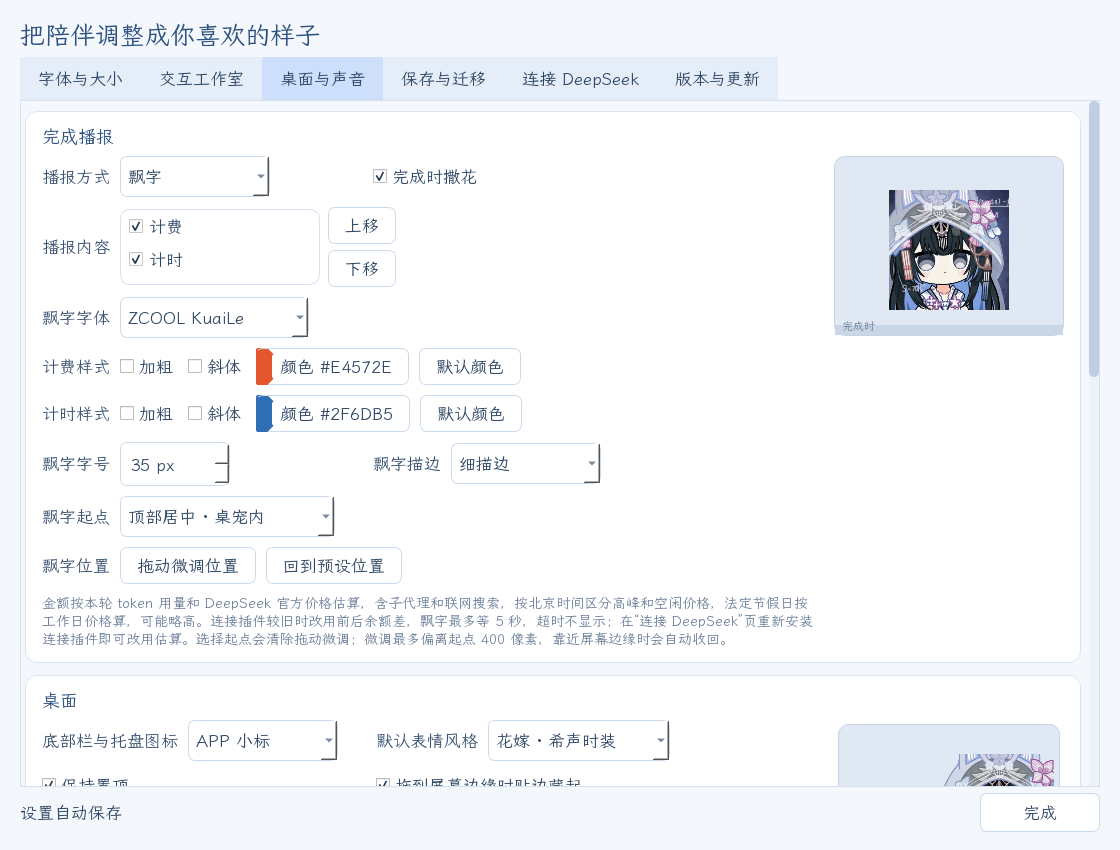
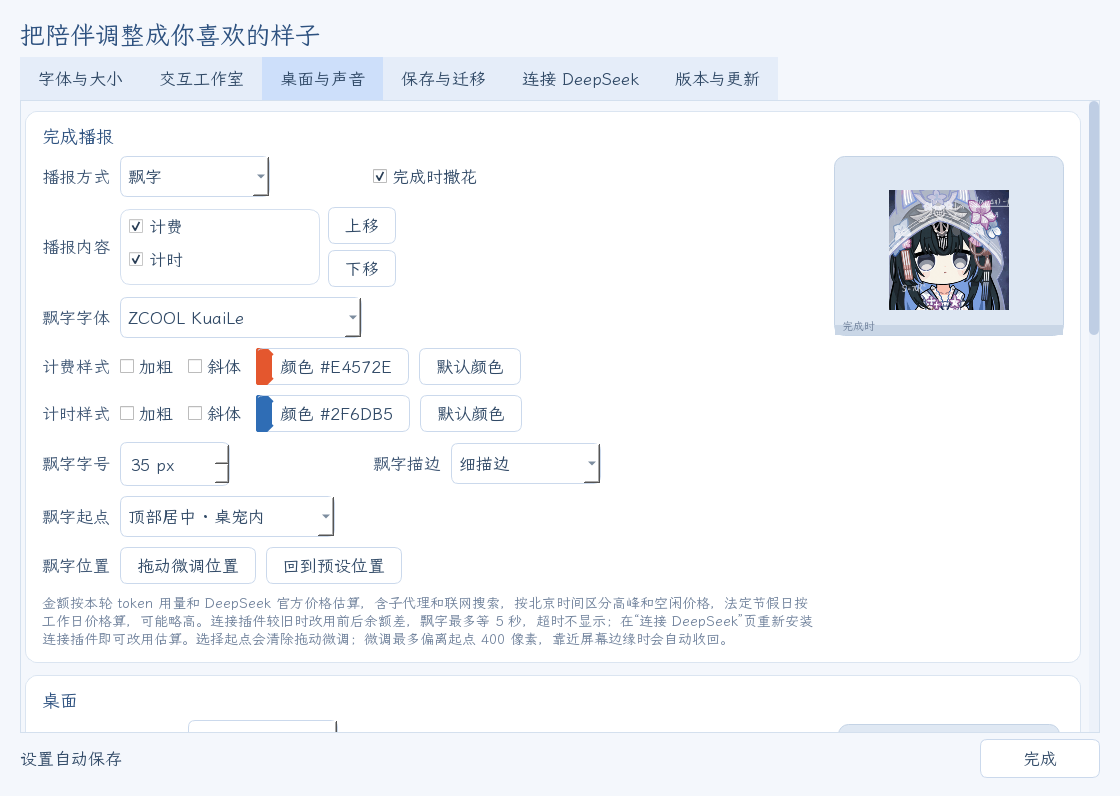
Remove the original-outfit expression preset
Its stand-ins for interactions without a same-named sticker were poor.
Selena now always starts from the bridal set: the skin drop-down is gone
from Desktop & Sound, and a saved or imported 原皮 preset falls back to
bridal. The original stickers stay in the library, and an interaction
set to one of them by hand keeps it. README and the settings screenshot
follow.

diff --git a/tests/test_skin_preset.py b/tests/test_skin_preset.py
@@ -1,0 +1,51 @@
+"""The 原皮 expression preset was removed: Selena always starts from the bridal set, while the original-outfit
+stickers stay in the library for anyone who picks them one interaction at a time."""
+import pathlib,tempfile,unittest
+from unittest.mock import patch
+from PySide6.QtWidgets import QApplication,QComboBox
+from selena_pet import pet as module
+from selena_pet.config_io import save_atomic
+
+
+class OriginalPresetRemovedTests(unittest.TestCase):
+    @classmethod
+    def setUpClass(cls):
+        cls.app=QApplication.instance() or QApplication([]);cls.app.setQuitOnLastWindowClosed(False)
+
+    def make(self,**settings):
+        self.temp=tempfile.TemporaryDirectory();path=pathlib.Path(self.temp.name)/'settings.json'
+        save_atomic(path,dict(appearance=dict(audio_muted=True),**settings))
+        self.patch=patch.object(module,'SETTINGS',path);self.patch.start()
+        self.pet=module.Pet(offline=True);self.pet.timer.stop();self.pet.slow_timer.stop()
+        return self.pet
+
+    def tearDown(self):
+        if getattr(self.pet,'preferences',None):self.pet.preferences.hide()
+        self.pet.hide();self.patch.stop();self.temp.cleanup()
+
+    def test_only_the_bridal_preset_is_left(self):
+        pet=self.make();self.assertEqual(list(module.PACKS),['花嫁']);self.assertEqual(pet.pack,'花嫁')
+
+    def test_a_saved_original_preset_falls_back_to_bridal(self):
+        pet=self.make(pack='原皮');self.assertEqual(pet.pack,'花嫁')
+        for state,asset in module.PACKS['花嫁'].items():self.assertEqual(pet.binding(state)['asset'],asset,state)
+
+    def test_imported_settings_with_the_original_preset_fall_back_too(self):
+        pet=self.make();pet.apply_settings(dict(pet.settings,pack='原皮'))
+        self.assertEqual(pet.pack,'花嫁');self.assertEqual(pet.binding('idle')['asset'],module.PACKS['花嫁']['idle'])
+
+    def test_original_stickers_stay_in_the_library_and_a_chosen_one_is_kept(self):
+        original=[a['id'] for a in module.CATALOG if a.get('skin')=='原皮']
+        self.assertEqual(len(original),48)
+        pet=self.make(pack='原皮',bindings=dict(pet=dict(asset=original[0])))
+        self.assertEqual(pet.binding('pet')['asset'],original[0])
+        self.assertEqual(pet.binding('idle')['asset'],module.PACKS['花嫁']['idle'])
+
+    def test_the_settings_offer_no_skin_preset(self):
+        pet=self.make();pet.open_preferences('桌面与声音');d=pet.preferences
+        texts=[c.itemText(i) for c in d.findChildren(QComboBox) for i in range(c.count())]
+        self.assertFalse([t for t in texts if '原皮' in t or '花嫁' in t],texts)
+
+
+if __name__=='__main__':
+    unittest.main()

diff --git a/selena_pet/preferences.py b/selena_pet/preferences.py
@@ -63,7 +63,6 @@ class Preferences(QDialog):
         voice.section('桌面',self.preview('desk'))
         icon_style=QComboBox();icon_style.addItem('APP 小标','badged');icon_style.addItem('纯净图标','clean')
         icon_style.currentIndexChanged.connect(lambda:self.change('tray_icon_style',icon_style.currentData()));self.controls['tray_icon_style']=icon_style;voice.addRow('底部栏与托盘图标',icon_style)
-        self.pack=QComboBox(); self.pack.addItem('花嫁 · 希声时装','花嫁'); self.pack.addItem('原皮 · 原版','原皮'); self.pack.currentIndexChanged.connect(lambda:pet.set_pack(self.pack.currentData()) if not self.loading else None); voice.addRow('默认表情风格',self.pack)
         self.top=QCheckBox('保持置顶'); self.top.toggled.connect(lambda value:pet.set_top(value) if not self.loading else None); voice.addRow(self.top)
         for key,label in (('edge_dock','拖到屏幕边缘时贴边藏起'),('daily_recap','每天显示一次小结'),('fullscreen_hide','全屏程序运行时隐藏')):
             box=QCheckBox(label); box.toggled.connect(lambda value,key=key:self.change(key,value)); self.controls[key]=box; voice.addRow(box)
@@ -221,7 +220,7 @@ class Preferences(QDialog):
             elif isinstance(control,QSpinBox): control.setValue(round(value))
             elif isinstance(control,QCheckBox): control.setChecked(bool(value))
             else: control.setText(value)
-        self.top.setChecked(self.pet.on_top); self.notes.setChecked(self.pet.show_notes); self.pack.setCurrentIndex(self.pack.findData(self.pet.pack))
+        self.top.setChecked(self.pet.on_top); self.notes.setChecked(self.pet.show_notes)
         self.refresh_threads(); self.size_control.refresh(); self.editor.update_timing(); self.paint_color_buttons()
         self.order.set_state(self.pet.options['turn_cost_order'].split(','),{k:self.pet.options['turn_cost_show_'+k] for k in ('cost','time')})
         self.connection_status.setText('当前数据目录：'+str(self.pet.monitor.home)); self.loading=False

diff --git a/selena_pet/pet.py b/selena_pet/pet.py
@@ -46,9 +46,9 @@ STATES={
  'doubleclick':('双击回应','我在呢，听到你的呼唤了。'),
 }
 PACKS={
- # 花嫁：希声时装表情包；原皮：原版表情包（没有同名动作的事件用意思最接近的一张）
+ # 花嫁：希声时装表情包，16 种交互都有同名表情。原皮等其他表情包仍在素材库里，可在交互工作室按动作单独选用；
+ # 旧配置里的“原皮”预设读取时回到花嫁（见 __init__ / apply_settings）。
  '花嫁':dict(pet='hd1-13',doubleclick='hb-13',hover='hb-11',drag='hd1-06',drop='hd2-18',feed='hb-15',idle='hd2-14',thinking='hb-08',reading='hd1-16',writing='hd1-15',working='hd1-14',waiting='hd2-01',done='hb-01',error='hd1-10',paused='hb-03',unknown='hb-16'),
- '原皮':dict(pet='yb-07',doubleclick='yb-13',hover='yb-11',drag='yb-09',drop='ys-08',feed='yb-15',idle='ys-02',thinking='yb-08',reading='ys-07',writing='yb-05',working='ys-01',waiting='yb-12',done='yb-01',error='ys-11',paused='yb-03',unknown='yb-16'),
 }
 DEFAULT_PACK='花嫁'
 # Existing frames only. Reversible small motions use ping-pong; reactions play once.
@@ -818,9 +818,6 @@ class Pet(PetRenderer,QWidget):
         self.set_top(bool(data.get('on_top',True))); self.save_settings(); self.clear_override(); self.apply_style(); self.apply_icon(); self.update_layout(); self.refresh_quota()
         if self.binding_editor: self.binding_editor.populate_gallery(); self.binding_editor.load_selection()
 
-    def set_pack(self,pack):
-        self.pack=pack; self.settings['pack']=pack; self.save_settings(); self.clear_override()
-        if self.binding_editor: self.binding_editor.load_selection()
     def cancel_pointer_interaction(self):
         self.hover_timer.stop(); self.click_timer.stop(); self.hovered=False
         self.quota_press=None

diff --git a/README.md b/README.md
@@ -19,7 +19,7 @@
 
 让赛琳娜陪你使用 **DeepSeek Harness 官方 Windows 客户端**：任务进行时换表情，完成后用语音和气泡回应，底部显示账户余额。
 
-适用于 **Windows 10/11 x64**。完整包附带两套皮肤共 128 个 GIF、115 条赛琳娜语音（含字幕）、字体和 Harness 连接插件，无需安装 Python。也有 [Codex 版](https://github.com/Doya16/selena-codex-pet)，两版可以同时运行，分别保存设置。
+适用于 **Windows 10/11 x64**。完整包附带花嫁表情预设和共 128 个 GIF 的表情库、115 条赛琳娜语音（含字幕）、字体和 Harness 连接插件，无需安装 Python。也有 [Codex 版](https://github.com/Doya16/selena-codex-pet)，两版可以同时运行，分别保存设置。
 
 ## 安装方法
 
@@ -49,16 +49,11 @@
 
 ![连接 DeepSeek](docs/images/connection.png)
 
-## 两套皮肤
+## 表情
 
-在 **设置 → 桌面与声音 → 默认表情风格** 中切换，立即生效：
+默认使用 **花嫁 · 希声时装** 表情包，16 种交互都有对应的花嫁表情。
 
-- **花嫁 · 希声时装**（默认）：16 种交互都有对应的花嫁表情。
-- **原皮 · 原版**：原版表情包；没有同名动作的交互，用意思最接近的一张代替。
-
-![原皮皮肤的 16 种交互](docs/images/events-original.jpg)
-
-每个交互也可以单独改成任意一张 GIF，两套皮肤的 128 张都能选。
+表情库里还有原皮、社区包、圣诞和新年系列，加上花嫁一共 128 张。在 **设置 → 交互工作室** 里，可以给任意一种交互单独换成其中任意一张，也可以导入自己的图片。
 
 ## 一键更新
 
@@ -88,7 +83,7 @@
 
 **声音与托盘**：Windows 音量合成器显示「赛琳娜 · DeepSeek」，可单独调节音量。托盘提示为「赛琳娜 · DeepSeek · 点击唤醒/隐藏」，单击即可切换显示。
 
-![桌面与声音：默认表情风格、贴边藏起和完成播报](docs/images/desktop-settings.png)
+![桌面与声音设置页：完成播报与桌面](docs/images/desktop-settings.png)
 
 ## 适用范围
 

diff --git a/README.en.md b/README.en.md
@@ -17,7 +17,7 @@
 
 </div>
 
-For the official **DeepSeek Harness Windows client**, on **Windows 10/11 x64**. The full package includes two skins with 128 GIFs, 115 Selena voice lines with subtitles, fonts and the Harness connection plugin; no Python installation is required. A [Codex edition](https://github.com/Doya16/selena-codex-pet) is also available; both can run together.
+For the official **DeepSeek Harness Windows client**, on **Windows 10/11 x64**. The full package includes the bridal expression set and a library of 128 GIFs, 115 Selena voice lines with subtitles, fonts and the Harness connection plugin; no Python installation is required. A [Codex edition](https://github.com/Doya16/selena-codex-pet) is also available; both can run together.
 
 ## Installation
 
@@ -45,14 +45,11 @@ When a new version is out, the pet tells you; click **更新并重启赛琳娜**
 
 Sound is on by default at 10% volume. Change it in Settings → Desktop & Sound.
 
-## Two skins
+## Expressions
 
-Switch in **Settings → Desktop & Sound → Default expression style**:
+Selena uses the **bridal** sticker set by default; every one of the 16 interactions has its own bridal expression.
 
-- **Bridal** (default): every interaction has its own bridal expression.
-- **Original**: the original-outfit sticker set; interactions without a same-named sticker use the closest one.
-
-![The 16 interactions in the original skin](docs/images/events-original.jpg)
+The library also holds the original-outfit, community, Christmas and New Year stickers, 128 in all. In **Settings → Interaction Studio** you can give any interaction any of them, or import your own images.
 
 ## One-click updates
 
